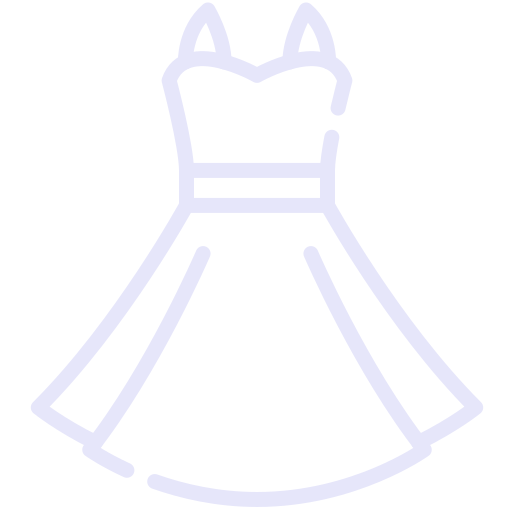
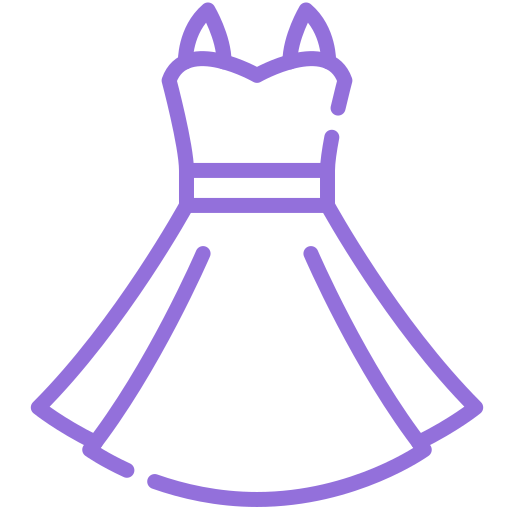
feat: filter products (#54)

Changed region(s): [[0.0625, 0.0, 0.9688, 1.0]]

diff --git a/src/app/features/user/user.module.ts b/src/app/features/user/user.module.ts
@@ -9,6 +9,9 @@ import { CategoriesSectionComponent } from './components/categories-section/cate
 import { CategoryCardComponent } from './components/categories-section/category-card/category-card.component';
 import { ProductsPageComponent } from './containers/products-page/products-page.component';
 import { MatIconModule } from '@angular/material/icon';
+import { SearchFieldComponent } from './components/search-field/search-field.component';
+import { MatFormFieldModule } from '@angular/material/form-field';
+import { MatInputModule } from '@angular/material/input';
 
 @NgModule({
   declarations: [
@@ -17,7 +20,15 @@ import { MatIconModule } from '@angular/material/icon';
     CategoriesSectionComponent,
     CategoryCardComponent,
     ProductsPageComponent,
+    SearchFieldComponent,
   ],
-  imports: [CommonModule, UserRoutingModule, MatMenuModule, MatIconModule],
+  imports: [
+    CommonModule,
+    UserRoutingModule,
+    MatMenuModule,
+    MatIconModule,
+    MatFormFieldModule,
+    MatInputModule,
+  ],
 })
 export class UserModule {}

diff --git a/src/app/features/user/components/categories-section/category-card/category-card.component.ts b/src/app/features/user/components/categories-section/category-card/category-card.component.ts
@@ -13,17 +13,27 @@ type CategoryColors = {
 })
 export class CategoryCardComponent implements OnInit {
   @Input() category!: string;
-  selectedCategory!: number | null;
+  selectedCategory!: string;
+  shadow = '0px 3px 15px rgba(0,0,0,0.2)';
   color: CategoryColors = {
     electronics: '#4682B4',
     jewelery: '#B76E79',
     "men's clothing": '#228B22',
-    "women's clothing": '#E6E6FA',
+    "women's clothing": '#9370DB',
   };
 
   constructor(private route: ActivatedRoute) {}
 
+  toggleColoredShadow($event: MouseEvent | FocusEvent, category: string) {
+    this.shadow =
+      $event.type == 'mouseover' || $event.type == 'focus'
+        ? '0px 3px 15px ' + this.color[category]
+        : '0px 3px 15px rgba(0,0,0,0.2)';
+  }
+
   ngOnInit(): void {
-    this.route.queryParams.pipe(map(value => value));
+    this.route.queryParams.pipe(map(value => value)).subscribe(values => {
+      this.selectedCategory = values['category'] ? values['category'] : null;
+    });
   }
 }

diff --git a/src/app/features/user/components/search-field/search-field.component.ts b/src/app/features/user/components/search-field/search-field.component.ts
@@ -1,0 +1,27 @@
+import { Component, ViewChild, ElementRef, AfterViewInit } from '@angular/core';
+import { fromEvent } from 'rxjs';
+import { debounceTime, distinctUntilChanged, map } from 'rxjs/operators';
+import { Router } from '@angular/router';
+
+@Component({
+  selector: 'ecs-search-field',
+  templateUrl: './search-field.component.html',
+  styleUrls: ['./search-field.component.scss'],
+})
+export class SearchFieldComponent implements AfterViewInit {
+  @ViewChild('searchInput') searchInput!: ElementRef;
+
+  constructor(private router: Router) {}
+
+  ngAfterViewInit() {
+    fromEvent<InputEvent>(this.searchInput.nativeElement, 'input')
+      .pipe(
+        debounceTime(300),
+        distinctUntilChanged(),
+        map((event: InputEvent) => (event.target as HTMLInputElement).value)
+      )
+      .subscribe(query => {
+        this.router.navigate(['/homepage'], { queryParams: { search: query } });
+      });
+  }
+}

diff --git a/src/app/features/user/components/search-field/search-field.component.spec.ts b/src/app/features/user/components/search-field/search-field.component.spec.ts
@@ -1,0 +1,21 @@
+import { ComponentFixture, TestBed } from '@angular/core/testing';
+
+import { SearchFieldComponent } from './search-field.component';
+
+describe('SearchFieldComponent', () => {
+  let component: SearchFieldComponent;
+  let fixture: ComponentFixture<SearchFieldComponent>;
+
+  beforeEach(() => {
+    TestBed.configureTestingModule({
+      declarations: [SearchFieldComponent]
+    });
+    fixture = TestBed.createComponent(SearchFieldComponent);
+    component = fixture.componentInstance;
+    fixture.detectChanges();
+  });
+
+  it('should create', () => {
+    expect(component).toBeTruthy();
+  });
+});

diff --git a/src/app/features/user/components/categories-section/category-card/category-card.component.html b/src/app/features/user/components/categories-section/category-card/category-card.component.html
@@ -1,8 +1,15 @@
 <div
+  [style.boxShadow]="
+    selectedCategory === category ? '0px 3px 15px ' + color[category] : shadow
+  "
   [routerLink]="['/homepage']"
   [queryParams]="{ category: category }"
   queryParamsHandling="merge"
-  class="category-card">
+  class="category-card"
+  (mouseover)="toggleColoredShadow($event, category)"
+  (focus)="toggleColoredShadow($event, category)"
+  (mouseout)="toggleColoredShadow($event, category)"
+  (blur)="toggleColoredShadow($event, category)">
   <div class="category-card__image-wrapper">
     <img [src]="'assets/images/' + category + '.png'" [alt]="category" />
   </div>

diff --git a/src/app/features/user/components/categories-section/category-card/category-card.component.scss b/src/app/features/user/components/categories-section/category-card/category-card.component.scss
@@ -8,16 +8,13 @@
     display: flex;
     flex-direction: column;
     align-items: center;
-    box-shadow: 0px 3px 15px rgba(0, 0, 0, 0.2);
 
     @media screen and (max-width: 1100px) {
         width: 160px;
-        height: 6rem;
     }
 
     @media screen and (max-width: 576px) {
         width: 100px;
-        height: 5rem;
         padding-top: .5rem;
         padding-bottom: .5rem;
     }

diff --git a/src/app/features/user/containers/products-page/products-page.component.html b/src/app/features/user/containers/products-page/products-page.component.html
@@ -2,7 +2,7 @@
   class="products-page l-wrapper"
   *ngIf="productsListState$ | async as productsListState">
   <div *ngIf="productsListState.categories.length > 0">
-    <ecs-categories-section
-      [categories]="productsListState.categories"></ecs-categories-section>
+    <ecs-categories-section [categories]="productsListState.categories" />
+    <ecs-search-field />
   </div>
 </div>

diff --git a/src/app/features/user/components/categories-section/categories-section.component.scss b/src/app/features/user/components/categories-section/categories-section.component.scss
@@ -1,5 +1,4 @@
 .categories-section {
-    box-sizing: border-box;
     padding: 0 2rem;
     width: 100%;
     max-width: 95rem;
@@ -9,6 +8,7 @@
     display: flex;
     flex-direction: row;
     justify-content: center;
+    margin-bottom: 1rem;
 
     @media screen and (max-width: 992px) {
         flex-wrap: wrap;

diff --git a/src/app/features/user/containers/products-page/services/products-page.facade.service.ts b/src/app/features/user/containers/products-page/services/products-page.facade.service.ts
@@ -54,7 +54,7 @@ export class ProductsPageFacade {
           });
           return this.productsService.searchProduct(
             queryParams['category'],
-            queryParams['value']
+            queryParams['search']
           );
         })
       )

diff --git a/src/app/features/user/components/search-field/search-field.component.html b/src/app/features/user/components/search-field/search-field.component.html
@@ -1,0 +1,3 @@
+<mat-form-field [appearance]="'outline'" class="filters-section__search-input">
+  <input #searchInput matInput type="text" placeholder="Search here" />
+</mat-form-field>
